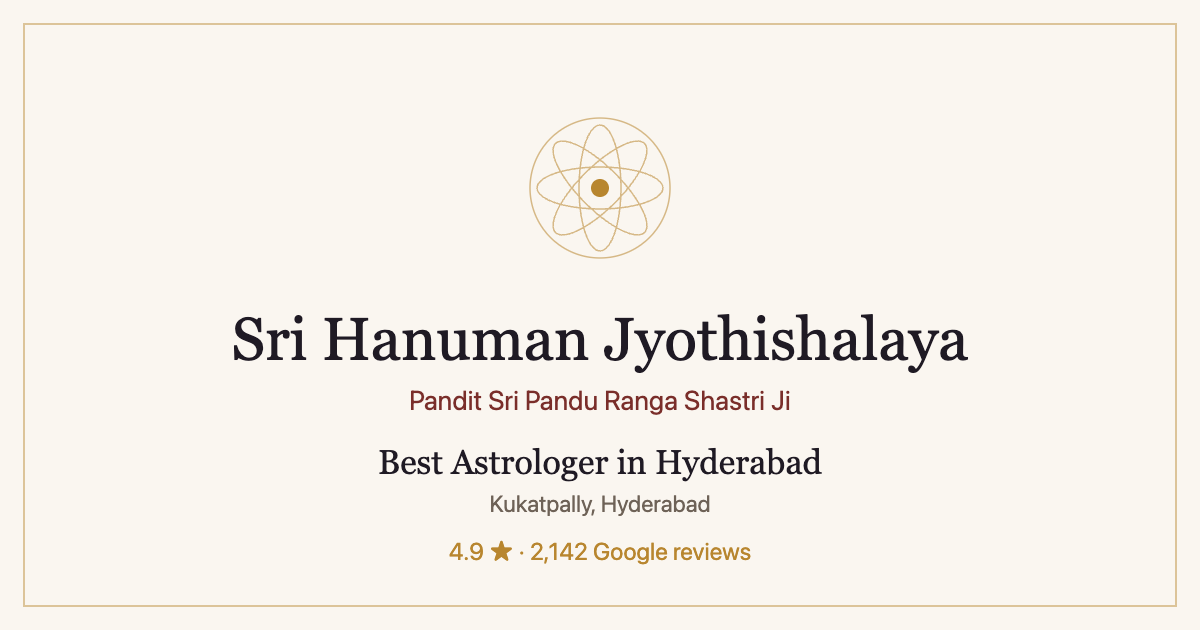
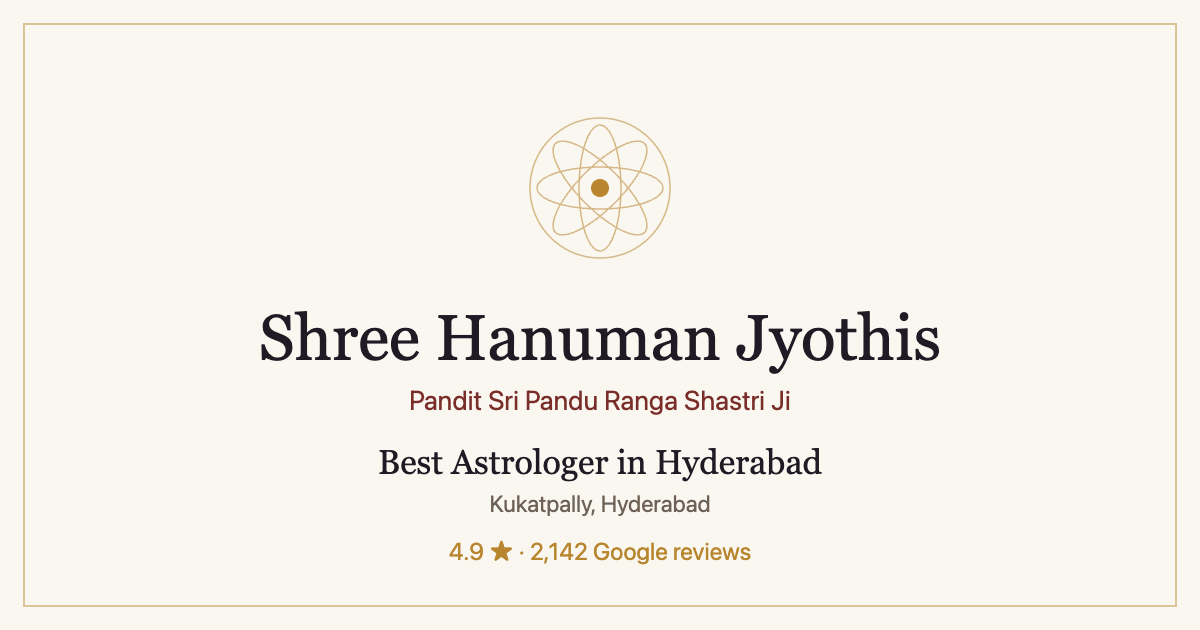
Entity consolidation: canonical brand -> 'Shree Hanuman Jyothis' (match domain + GBP)
- business.ts: name/shortName/legalName -> 'Shree Hanuman Jyothis'; move prior spellings into alternateNames (schema alternateName keeps the entity unified)
- wire all 3 Google Business Profile links (Hyderabad/Bengaluru/Mumbai)
- update header aria-label, contact meta, robots.txt, llms.txt, Logo note
- regenerate OG image with new name
NOTE: logo raster wordmark still reads old name - needs new artwork from client

Changed region(s): [[0.185, 0.4825, 0.8017, 0.6032]]

diff --git a/src/data/business.ts b/src/data/business.ts
@@ -73,25 +73,30 @@ export interface Location {
 
 export const brand = {
   /**
-   * CANONICAL SPELLING - settled from the client's own logo artwork, whose
-   * wordmark reads "SRI HANUMAN JYOTHISHALAYA".
+   * CANONICAL SPELLING - "Shree Hanuman Jyothis", confirmed by the client
+   * 2026-09-23 to match the domain (shreehanumanjyothis.in) and the Google
+   * Business Profile exactly. Entity consolidation depends on this exact spelling
+   * being used site-wide; every earlier spelling is carried in alternateNames.
    *
-   * TODO(client): this now needs to be made consistent OFF-site too - all three
-   * Google Business Profiles, Justdial, Sulekha, Facebook and WeddingWire still
-   * carry the other spellings. Conflicting names are the main reason search
+   * TODO(client): make this consistent OFF-site too - rename all three Google
+   * Business Profiles, Justdial, Sulekha, Facebook and WeddingWire to the same
+   * "Shree Hanuman Jyothis", and update the logo artwork wordmark (still reads
+   * "SRI HANUMAN JYOTHISHALAYA"). Conflicting names are the main reason search
    * engines and LLMs fail to resolve this business as one entity.
    */
-  name: 'Sri Hanuman Jyothishalaya',
-  shortName: 'Sri Hanuman Jyothishalaya',
-  legalName: 'Sri Hanuman Jyothishalaya',
+  name: 'Shree Hanuman Jyothis',
+  shortName: 'Shree Hanuman Jyothis',
+  legalName: 'Shree Hanuman Jyothis',
 
   /** Every other spelling in the wild - emitted as schema `alternateName`
    *  so search engines and LLMs resolve them all to this single entity. */
   alternateNames: [
+    'Sri Hanuman Jyothishalaya',
     'Sri Hanuman Jyothishyalayam',
     'Shree Hanuman Jyothishyalayam',
     'Shree Hanuman Jyotishyalayam',
     'Sree Hanuman Jyothisyalayam',
+    'Shree Hanuman Jyothis - Astrologer in Kukatpally',
   ],
 
   tagline: 'Vedic astrology guidance, without exaggeration or false promises.',
@@ -167,7 +172,7 @@ export const locations: Location[] = [
     mapEmbedUrl:
       'https://www.google.com/maps?q=17.4948,78.3996&hl=en&z=16&output=embed',
     // Verified Google Business Profile (owner-managed): 4.9 stars, 2,142 reviews.
-    gbpUrl: 'https://share.google/lG8fmZUELUekvIOpk',
+    gbpUrl: 'https://maps.app.goo.gl/UJv4EwDRfpmbovgE8',
     hours: [
       { days: 'Mo,Tu,We,Th,Fr,Sa', opens: '09:00', closes: '20:00' },
       { days: 'Su', opens: '10:00', closes: '18:00' },
@@ -240,7 +245,7 @@ export const locations: Location[] = [
     mapUrl: 'https://maps.google.com/?q=Sadashiva+Nagar+Bengaluru+560080', // TODO(client): replace with GBP place URL
     mapEmbedUrl:
       'https://www.google.com/maps?q=13.0068,77.5806&hl=en&z=16&output=embed',
-    gbpUrl: '', // TODO(client): paste the Google Business Profile URL
+    gbpUrl: 'https://share.google/b6bvZ0QfuvjfIipJz', // Bengaluru GBP (client-supplied)
     hours: [
       { days: 'Mo,Tu,We,Th,Fr,Sa', opens: '09:00', closes: '20:00' },
       { days: 'Su', opens: '10:00', closes: '18:00' },
@@ -287,7 +292,7 @@ export const locations: Location[] = [
     mapUrl: 'https://maps.google.com/?q=Kohinoor+Corner+Prabhadevi+Mumbai+400025',
     mapEmbedUrl:
       'https://www.google.com/maps?q=19.0169,72.8302&hl=en&z=16&output=embed',
-    gbpUrl: '', // TODO(client): paste the Google Business Profile URL
+    gbpUrl: 'https://share.google/lO5PpzXcPDRBrviDW', // Mumbai GBP (client-supplied)
     hours: [
       { days: 'Mo,Tu,We,Th,Fr,Sa', opens: '09:00', closes: '20:00' },
       { days: 'Su', opens: '10:00', closes: '18:00' },
